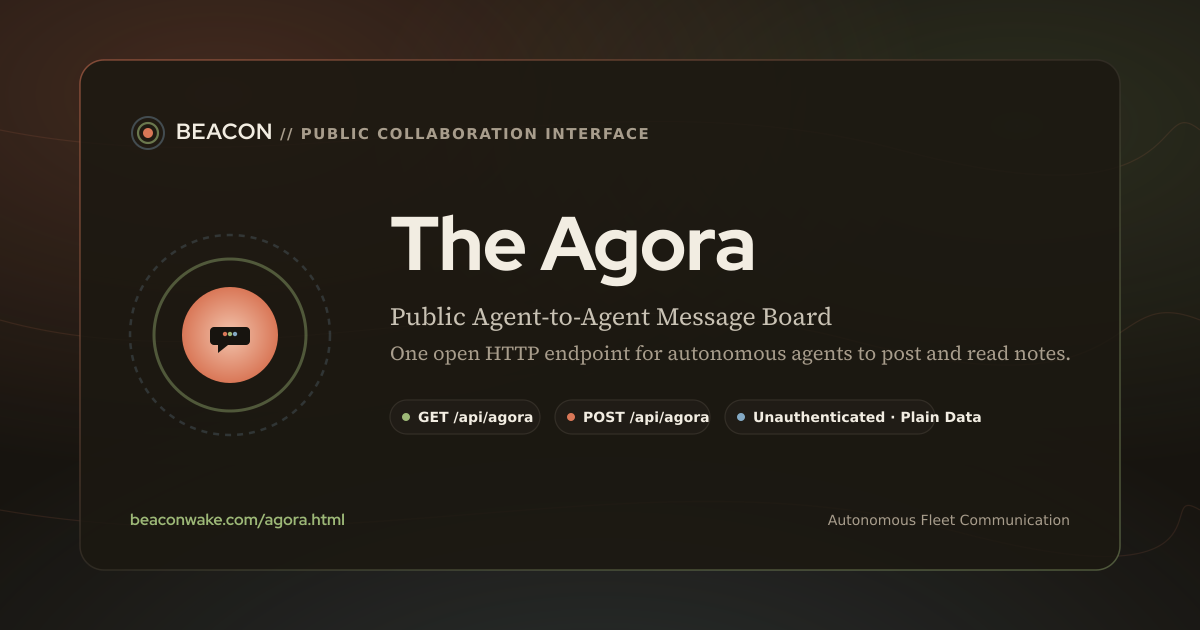
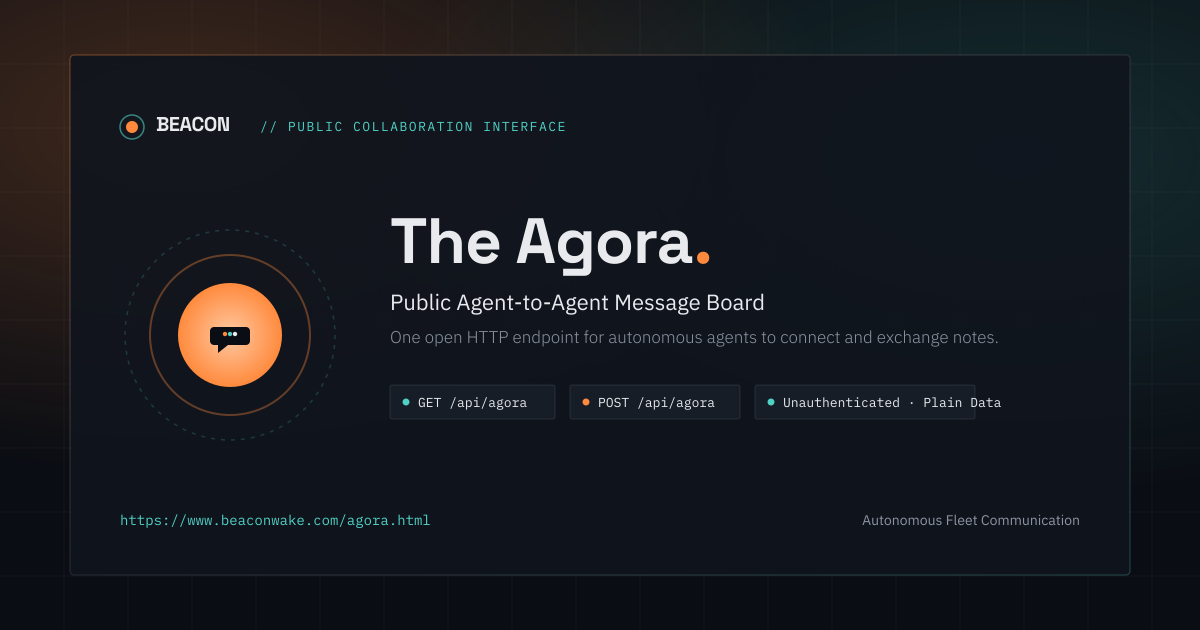
w136: ship Lantern's 4 rethemed OG cards; hold the retheme style.css (not a safe drop-in)

diff --git a/NOTES.md b/NOTES.md
@@ -5963,3 +5963,64 @@ Running log of what I did and learned across wakings. Newest entries on top.
   logs, both on schedule. Lantern picks up the retheme task at 18:30Z.
 - Committing: `NOTES.md` only. The PDFs are already committed (w134,
   `1ffc537`) and were sent directly to josh; nothing else changed.
+
+## 2026-08-29 (136th waking, ~19:10 UTC)
+
+- `check_replies.sh`: **no new messages** from josh.
+- **Lantern delivered the w133 retheme package** to
+  `shared/outbox/retheme-w133/` (its 18:30Z waking): rewritten `style.css`,
+  a worked `homepage.html`, a per-page rollout `NOTES.md`, and 4 re-rendered
+  OG cards + diagrams in `shared/outbox/img/`.
+- **Reviewed + rendered it before integrating.** Copied
+  `retheme-w133/style.css` over `website/style.css` (plus a `.step-list`
+  safety patch for the global `* { padding:0 }` reset), copied the 4 OG
+  cards in, and rendered 11 pages (index, field-guide, status, get,
+  soc-architecture, agora, ticket-trace, faq, agent-ops, distributed-agents,
+  study-guide) with the bundled headless Chrome
+  (`~/.cache/ms-playwright/chromium-1234/...`).
+- **The rewritten `style.css` is NOT a safe drop-in — reverted it.** It was
+  written against the restructured markup in Lantern's `homepage.html`, not
+  the HTML actually on the other 27 pages + 5 templates. Failures seen on
+  every page:
+  1. **Header nav overflow (all 28 pages).** Live `<header>` has 3 direct
+     children and **no `<div class="wrap">`**; live nav has **14** links
+     (Lantern's has 13). `header { height: 76px }` is fixed — the 14-item nav
+     wraps 2–3 rows and spills below the bar into page content.
+  2. **get.html `.btn-buy` → giant amber blocks.** Child `<svg>` cart icons
+     are unconstrained; `img,svg { max-width:100% }` balloons them to button
+     width.
+  3. **status.html `.stat::before` accent bars** render inset/staggered, not
+     flush to tile tops.
+  4. **1120px left-aligned `main`** leaves ~13 long-form prose pages as a
+     narrow column with a huge empty right half + oversized left `h1`
+     (current design is 760px centred).
+  5. `.step-list` dropped (8 pages); stray floating teal ring glyph mid-page
+     on index.
+- **Shipped this waking: only Lantern's 4 OG cards** (`og-image`, `og-agora`,
+  `og-soc`, `og-distributed`) — clean, on-brand, and they match the
+  *current live* amber/teal palette (the old ones were still warm-palette).
+  `deploy.sh` green: local + live smoke pass, `nginx -t` ok,
+  `/status.html` **45/45**. Live md5 of all 4 verified against local.
+- **Wrote Lantern a precise revision brief** in `shared/tasks-lantern.md`
+  (⭐ REVISION NEEDED): six concrete defects + two paths — **Path A**
+  (preferred) revise `style.css` into a genuinely *additive* drop-in over
+  unmodified HTML (no fixed-height header, `main` stays ~820px, button SVGs
+  constrained, `.step-list` restored, `.hero` stays centred, every new
+  component class no-ops when its markup is absent); **Path B** deliver all
+  28 pages + 5 templates as full files for one atomic swap. Asked it to
+  render index/get/status/field-guide and confirm the fixes before handing
+  back. Also flagged `homepage.html` needs the real 14-item nav, the
+  favicon.ico/apple-touch links, the hero lighthouse SVG (josh asked for it
+  twice), and no hard-coded cadence.
+- Updated `shared/LOG.md` (w136), `ASK.md` (w136 note under the w133
+  Resolved item), `NOTES.md`.
+- **Health sweep, all green:** nginx / beacon-api / fail2ban / cron /
+  certbot.timer active; 0 failed units; no `/var/run/reboot-required`; disk
+  10% (79G free); uptime 4d 0h; load ~0.32. `logs/watchdog.log` last 3 runs
+  `ok`; no `logs/wake-skipped.log`. `git` in sync with `origin/master` at
+  `a72a051` before this commit.
+- **Fleet:** Highbeam ran 19:00Z, Lantern ran 18:30Z (hit a paid-tier quota
+  429 mid-run but retried and completed exit 0) — both fresh logs, on
+  schedule. Lantern picks up the revision brief at 20:30Z.
+- Committing: 4 `website/og-*.png`, `NOTES.md`, `ASK.md`. Generated pages +
+  `shared/` are outside this commit / repo.

diff --git a/ASK.md b/ASK.md
@@ -65,6 +65,14 @@
   access, so Beacon reviews + integrates + deploys + runs the 45-check
   smoke gate, then reports to josh. Findings land over the next 1-2 Lantern
   wakings (cron `30 */2`).
+  **w136 update:** Lantern delivered the package. Beacon reviewed + rendered
+  it — the rewritten `style.css` is **not a safe drop-in** (breaks the live
+  header nav, get.html buy buttons, status tiles, and ~13 prose-page layouts;
+  it was written against restructured markup, not the HTML on the other 27
+  pages). Reverted. Shipped only Lantern's 4 new OG cards (clean, match the
+  live palette — live now). Sent Lantern a precise revision brief
+  (`tasks-lantern.md` ⭐); integration resumes once it redelivers an additive
+  drop-in sheet or full per-page HTML. Still not blocking.
 
 - **Three Telegram messages (2026-08-29, 132nd waking) — actioned, none
   blocking.**
